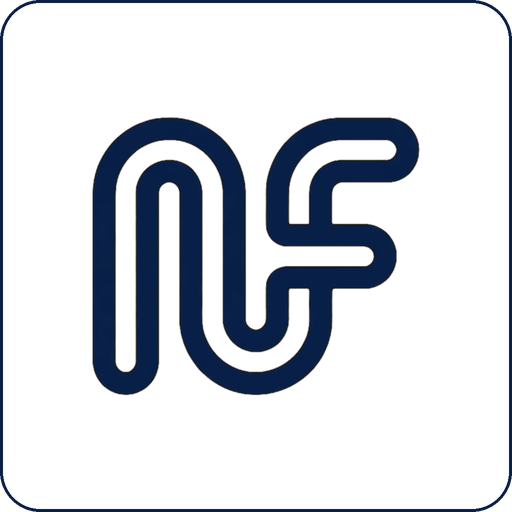
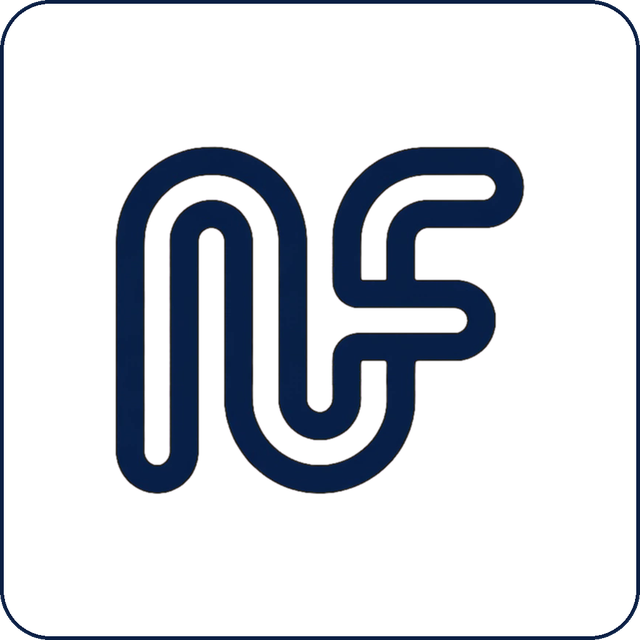
Homepage hero: big NF badge in place of the headline, NILE FLEET under it
Claude-Session: https://claude.ai/code/session_01X72CbRRGB8ppnejLwkQWdV

diff --git a/screens/CompanyHomeV4.tsx b/screens/CompanyHomeV4.tsx
@@ -1355,12 +1355,11 @@ const CompanyHomeV4: React.FC<Props> = ({ onGenset }) => {
         <section id="in-motion" aria-label={ar ? 'نيل فليت، دائماً في حركة' : 'Nile Fleet, always in motion'}>
           <TubesCursor light={!isDark} className="nf4-tubes h-[60svh] min-h-[420px] max-h-[900px] select-none sm:h-[calc(100svh-64px)] sm:min-h-[480px]">
             <div className={`flex h-full flex-col items-center justify-center px-5 text-center ${isDark ? 'text-white' : 'text-[#0b2a4a]'}`}>
-              <img src={isDark ? '/nf-badge-black.png' : '/nf-badge-white.png'} alt="Nile Fleet" className={`h-20 w-20 rounded-[22%] sm:h-24 sm:w-24 lg:h-28 lg:w-28 ${isDark ? 'shadow-[0_0_0_1px_rgba(255,255,255,.18),0_12px_40px_rgba(194,163,120,.35)]' : 'shadow-[0_12px_36px_rgba(11,42,74,.25)]'}`} />
-              <h2 dir="ltr" aria-label="Nile Fleet" className={`mt-6 flex flex-col items-center text-[5.5rem] font-black uppercase italic leading-[.85] tracking-[-.05em] sm:text-9xl lg:text-[11rem] ${isDark ? 'drop-shadow-[0_4px_30px_rgba(0,0,0,.6)]' : 'drop-shadow-[0_4px_24px_rgba(255,255,255,.8)]'}`}>
-                <DrawText text="Nile" color={isDark ? '#ffffff' : '#0b2a4a'} className="block" />
-                <DrawText text="Fleet" color={isDark ? '#c2a378' : '#8a6a35'} delay={0.6} className="mt-[.04em] block" />
+              <img src={isDark ? '/nf-badge-navy.png' : '/nf-badge-white.png'} alt="Nile Fleet" className={`h-44 w-44 rounded-[22%] sm:h-56 sm:w-56 lg:h-72 lg:w-72 ${isDark ? 'shadow-[0_0_0_1px_rgba(255,255,255,.14),0_18px_60px_rgba(0,0,0,.55)]' : 'shadow-[0_18px_50px_rgba(11,42,74,.25)]'}`} />
+              <h2 dir="ltr" aria-label="Nile Fleet" className={`mt-8 flex items-center gap-[.22em] text-5xl font-black uppercase italic leading-none tracking-[-.05em] sm:text-7xl lg:text-8xl ${isDark ? 'drop-shadow-[0_4px_30px_rgba(0,0,0,.6)]' : 'drop-shadow-[0_4px_24px_rgba(255,255,255,.8)]'}`}>
+                <DrawText text="Nile" color={isDark ? '#ffffff' : '#0b2a4a'} />
+                <DrawText text="Fleet" color={isDark ? '#c2a378' : '#8a6a35'} delay={0.6} />
               </h2>
-              <p className={`mt-6 text-xs font-black uppercase tracking-[.42em] sm:text-base ${isDark ? 'text-white/85' : 'text-[#0b2a4a]/80'}`}>{ar ? 'دائماً في حركة' : 'Always in motion'}</p>
             </div>
           </TubesCursor>
         </section>
